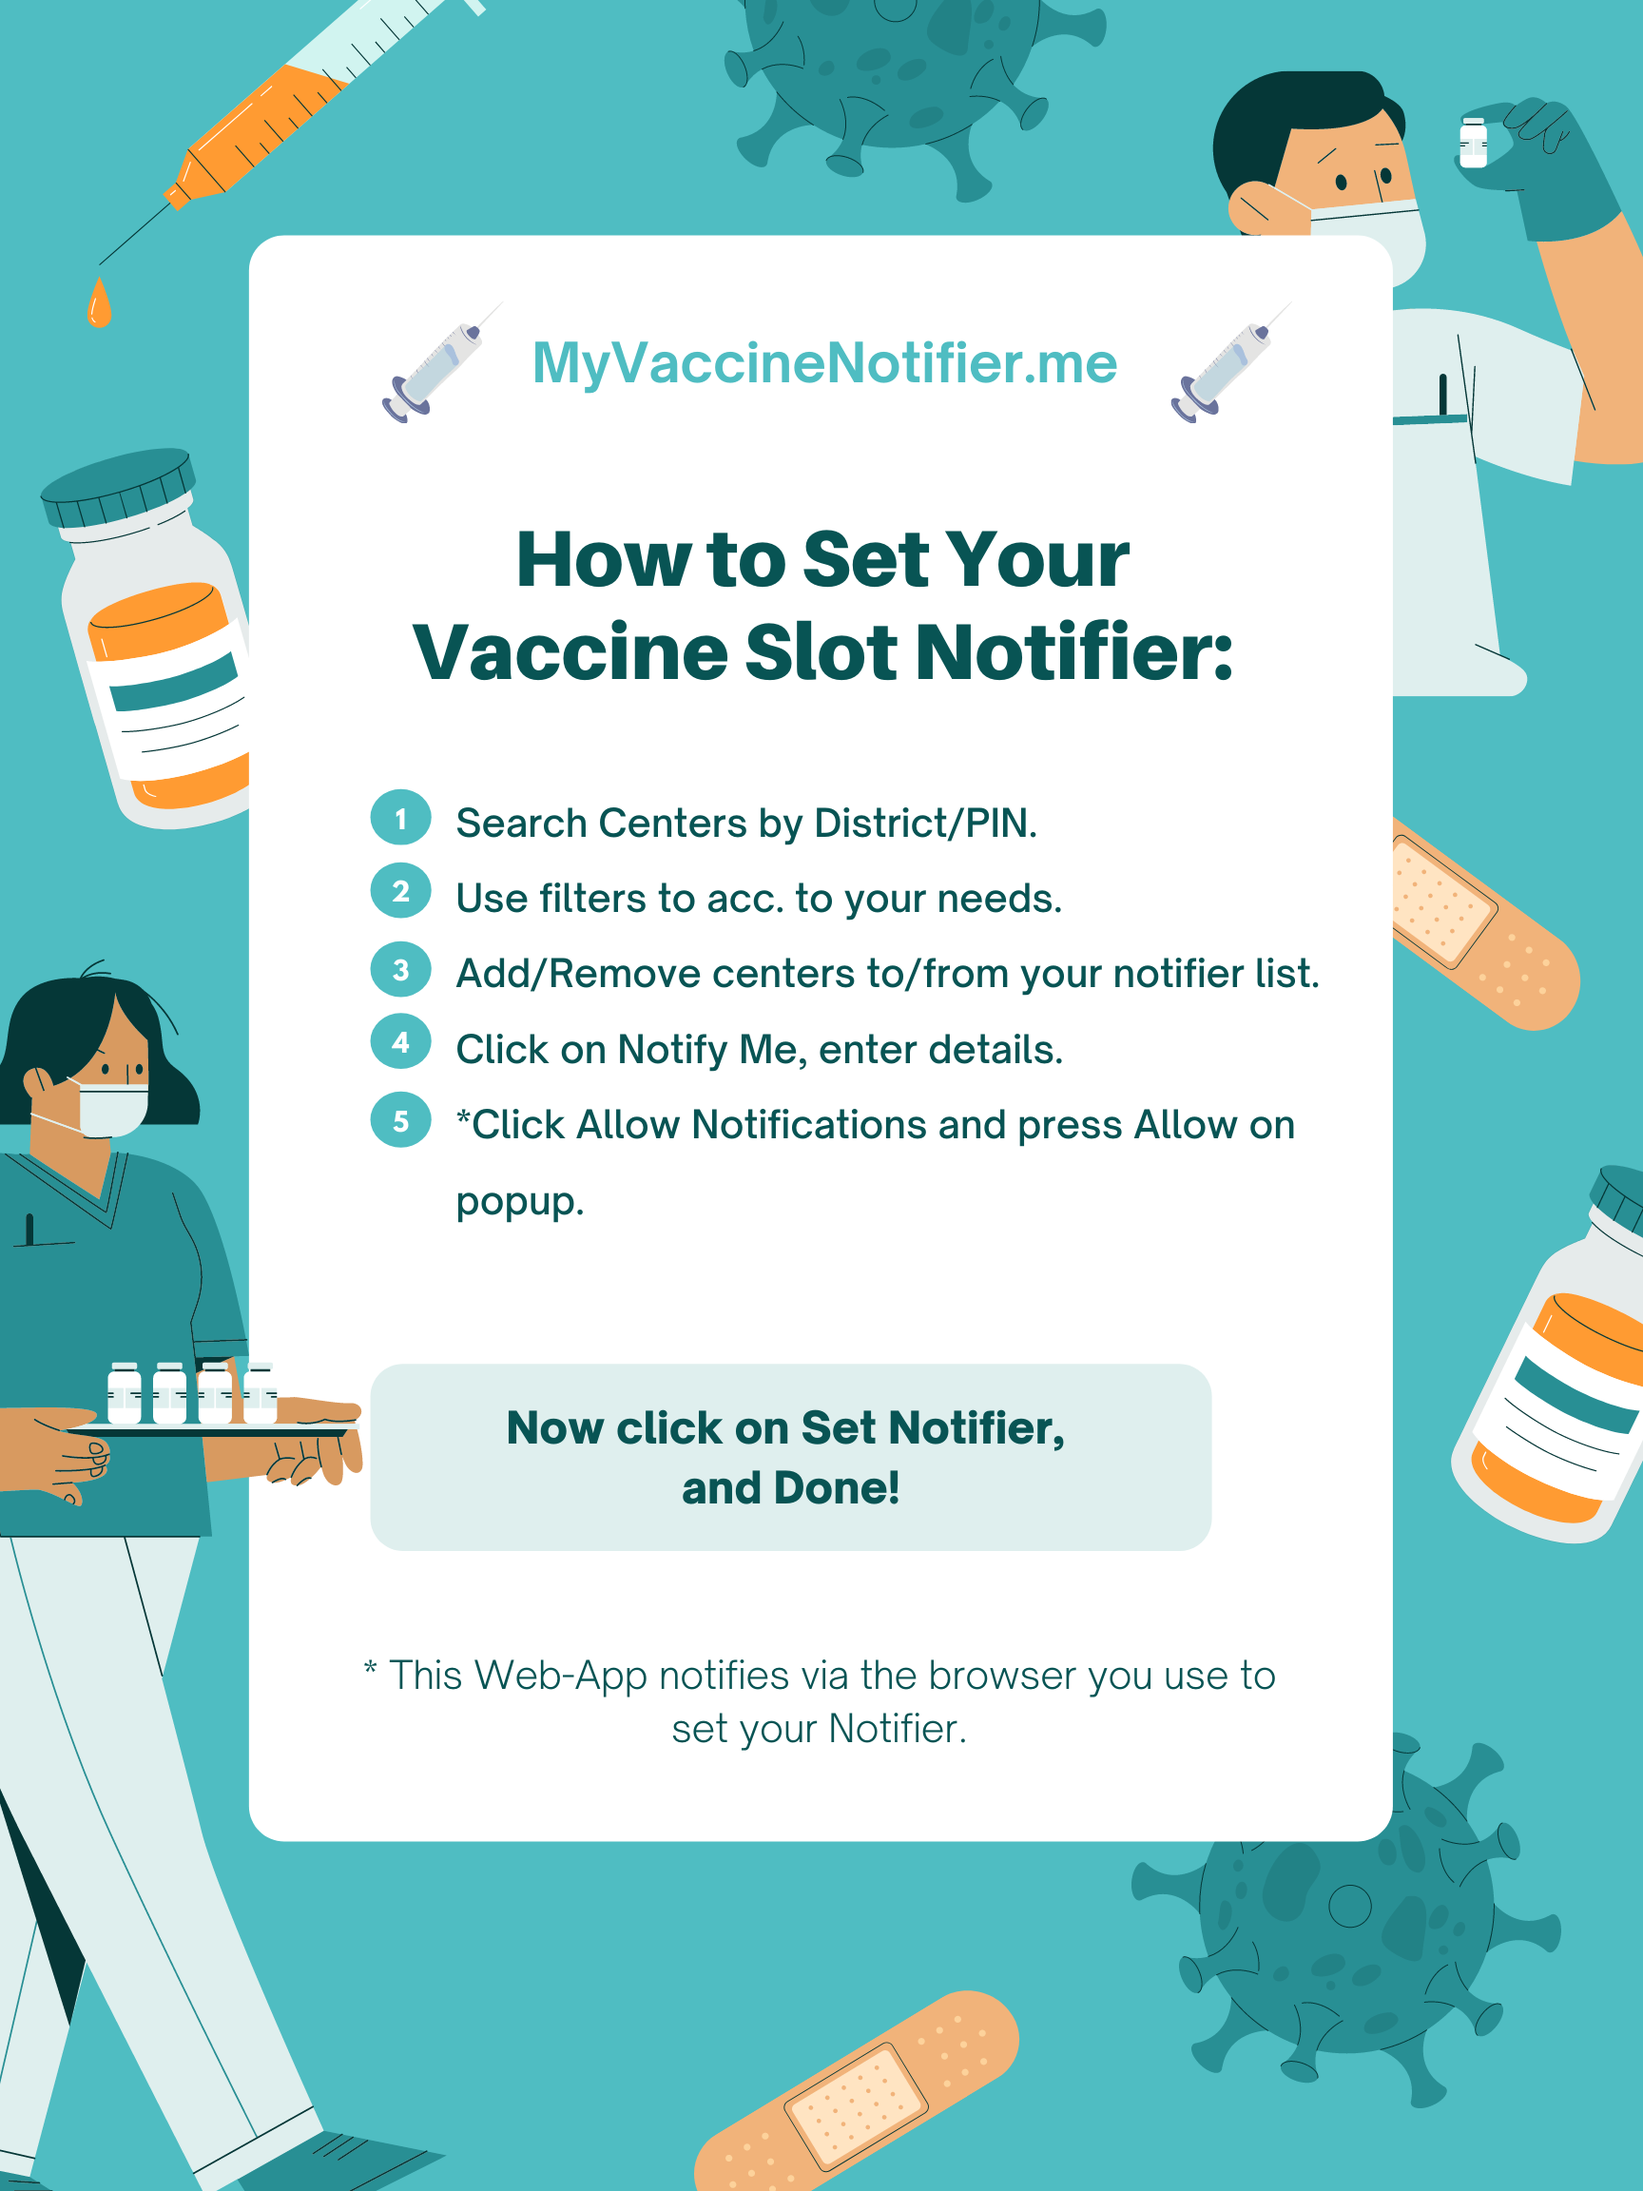
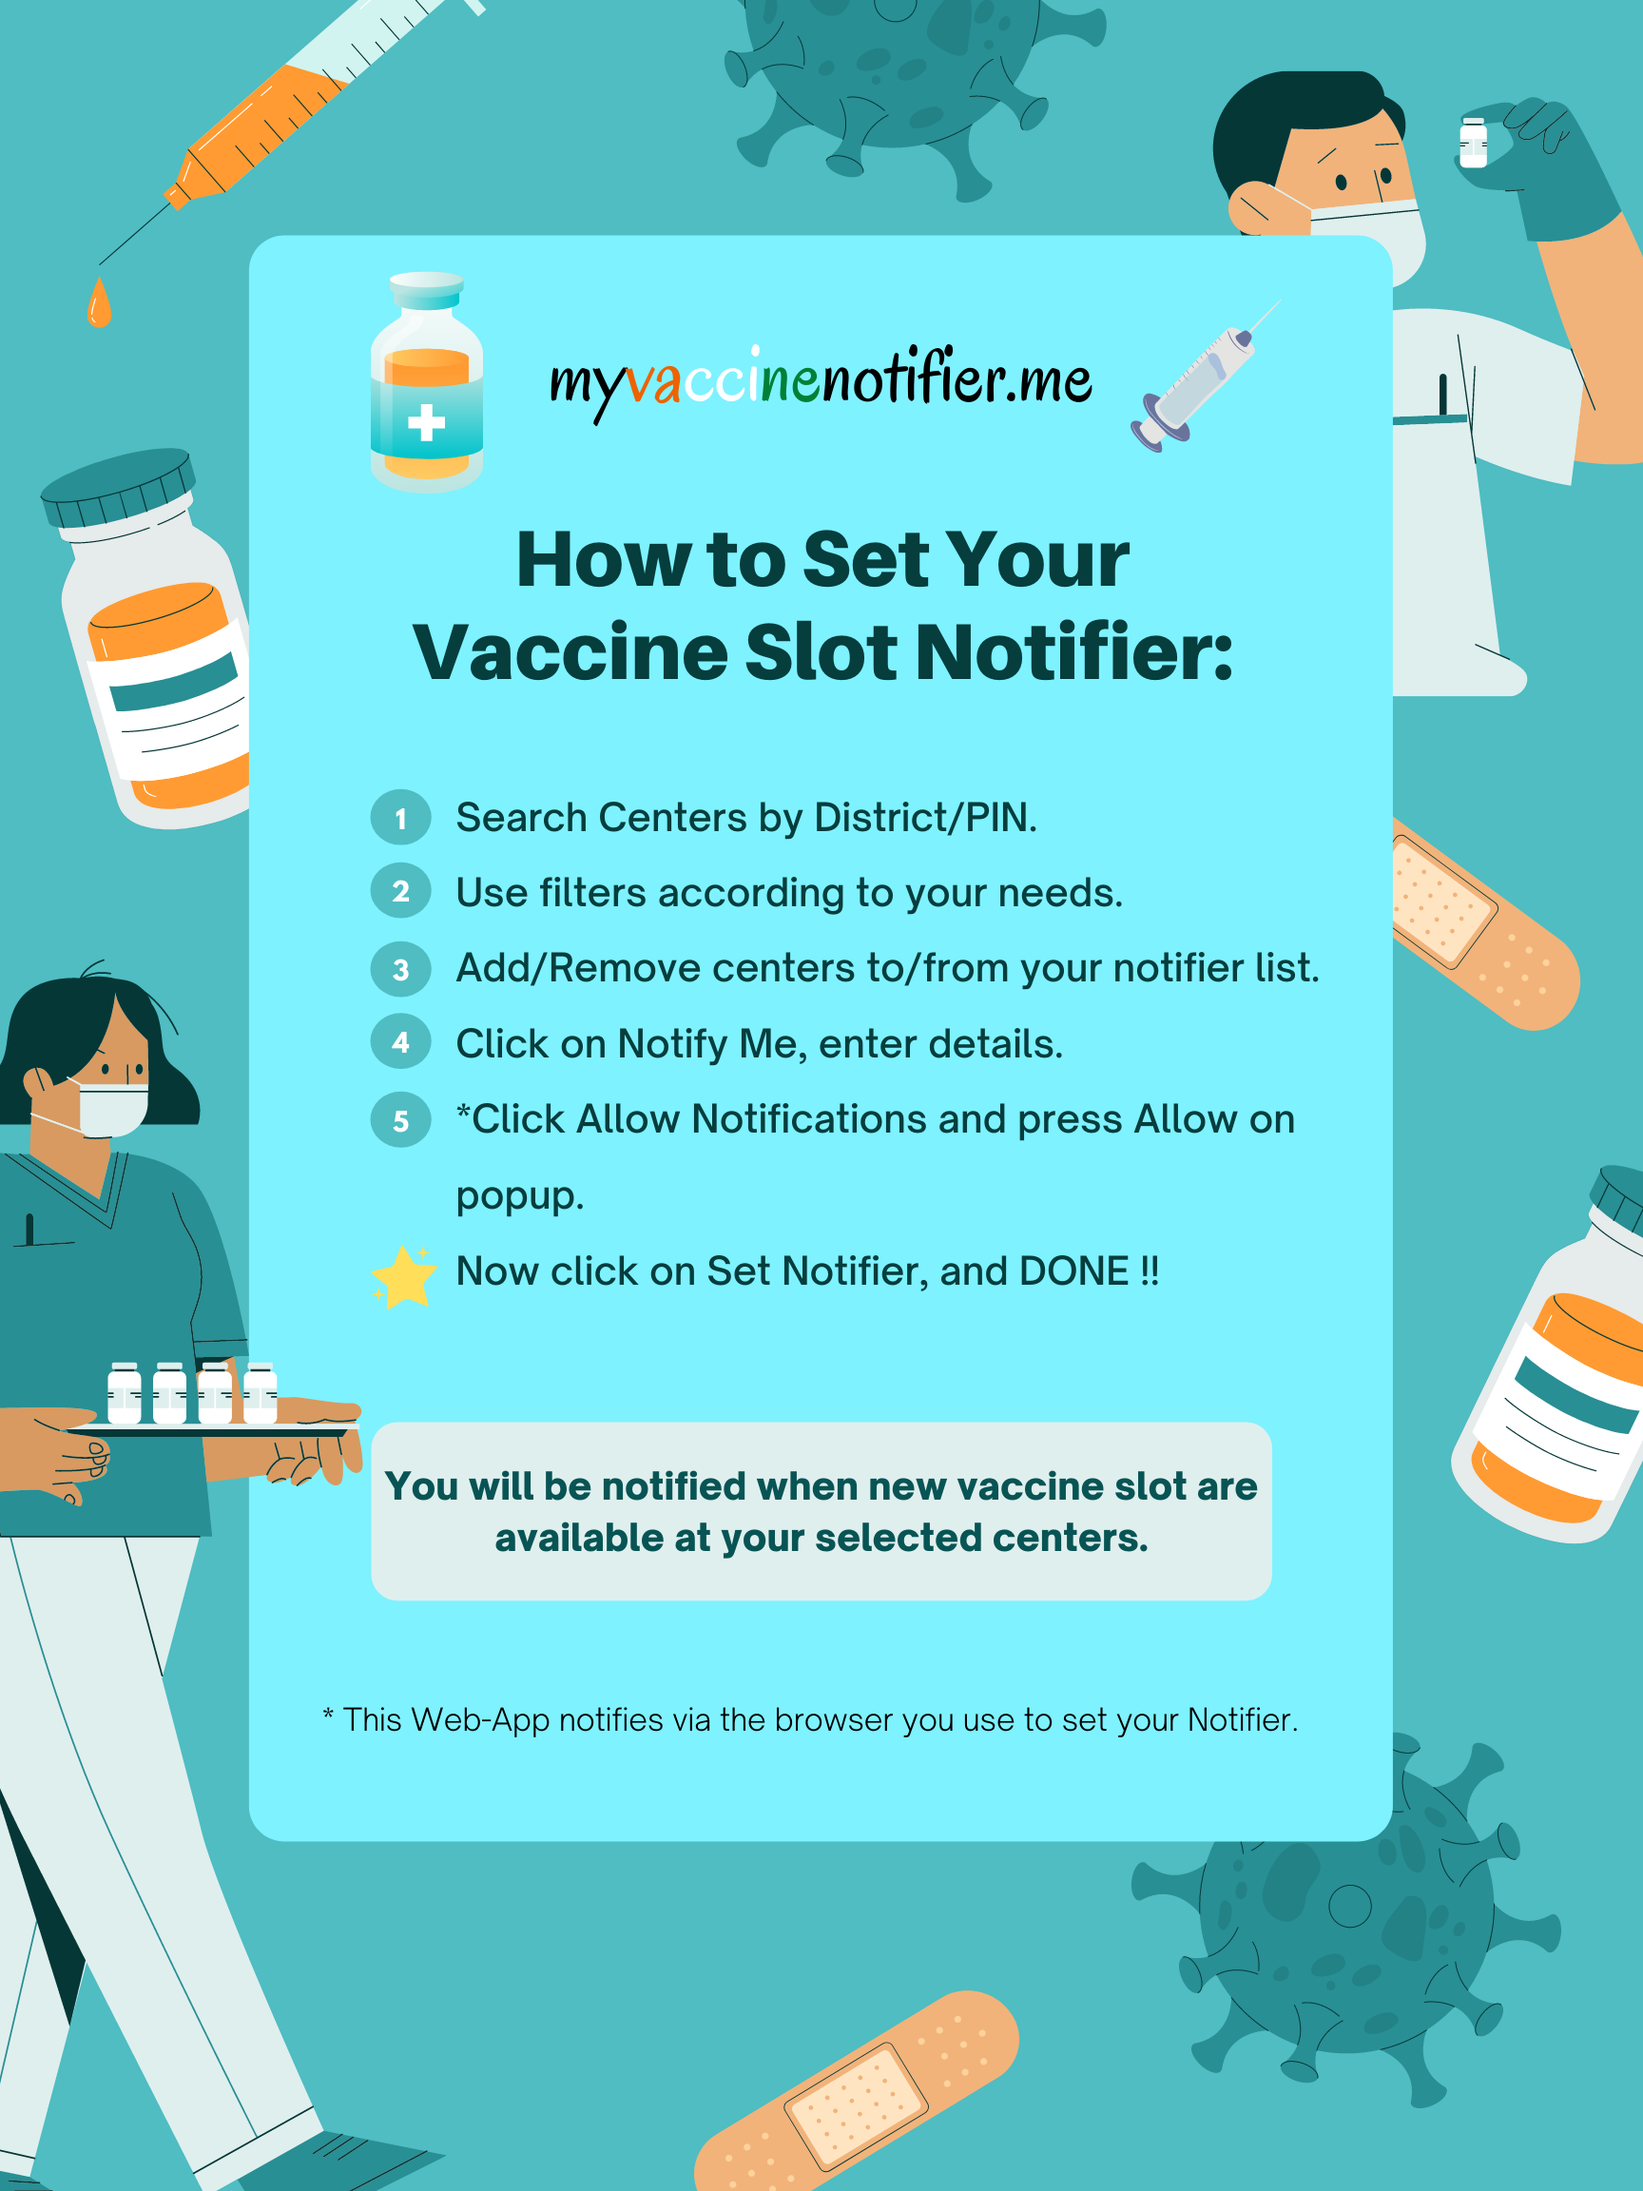
UI Changes

diff --git a/client/src/components/Cowin.js b/client/src/components/Cowin.js
@@ -94,6 +94,9 @@ const useStyles = makeStyles((theme) => ({
     },
     fill: {
         height: '16vh'
+    },
+    table: {
+        background: 'none'
     }
 }));
 
@@ -130,8 +133,8 @@ export default function Cowin() {
     const getContent = (id) => {
         switch (id) {
             case 0: return <ByDistrict setCenters={setCenters} />;
-            case 1: return <ByLocation setCenters={setCenters} />;
-            case 2: return <ByPIN setCenters={setCenters} />;
+            case 1: return <ByPIN setCenters={setCenters} />;
+            case 2: return <ByLocation setCenters={setCenters} />;
             default: break;
         }
     }
@@ -214,7 +217,7 @@ export default function Cowin() {
             <div className={classes.paper}>
                 <Tabs value={tab} setValue={setTab} />
                 {getContent(tab)}
-                {(tab !== 1) ? <Button
+                {(tab !== 2) ? <Button
                     type="submit"
                     variant="contained"
                     color="primary"
@@ -229,7 +232,7 @@ export default function Cowin() {
                     </Alert>
                 </Snackbar>
             </div>
-            {(tab !== 1) ? <div>
+            {(tab !== 2) ? <div>
                 <div>
                     <Grid container spacing={2} >
                         <Grid item xs={12} sm={3} >
@@ -400,8 +403,8 @@ export default function Cowin() {
                         <div className={classes.modal} ><User postData={postData} close={handleClose} /></div>
                     </Modal>
                 </div>
-                <TableContainer component={Paper}>
-                    <Table className={classes.table} aria-label="simple table">
+                <TableContainer className={classes.table} component={Paper}>
+                    <Table aria-label="simple table">
                         <TableHead>
                             <TableRow>
                                 <TableCell>Center Name</TableCell>

diff --git a/client/src/components/Header.js b/client/src/components/Header.js
@@ -22,6 +22,24 @@ const useStyles = makeStyles((theme) => ({
     },
     title: {
         flexGrow: 1,
+        fontFamily: "'Oregano', cursive",
+        fontSize: theme.spacing(4)
+    },
+    orange: {
+        marginLeft: '1px',
+        color: '#ed6300',
+        fontWeight: '800',
+        marginRight: '1px'
+    },
+    white: {
+        color: '#ffffff',
+        fontWeight: '800',
+        marginRight: '1px'
+    },
+    green: {
+        color: '#008037',
+        fontWeight: '800',
+        marginRight: '1px'
     },
     link: {
         '&:hover': {
@@ -45,7 +63,7 @@ const ButtonAppBar = (props) => {
             <AppBar position="static" elevation={0} >
                 <Toolbar>
                     <Typography variant="h5" className={classes.title}>
-                        MyVaccineNotifier
+                        my<span className={classes.orange}>va</span><span className={classes.white}>cci</span><span className={classes.green}>ne</span>notifier.me
                         {/* <img className={classes.logo} src="./logo.png" alt="logo" /> */}
                     </Typography>
                     <div className={classes.icons}>

diff --git a/client/src/components/Tabs.js b/client/src/components/Tabs.js
@@ -4,15 +4,16 @@ import Paper from '@material-ui/core/Paper';
 import Tabs from '@material-ui/core/Tabs';
 import Tab from '@material-ui/core/Tab';
 
-const useStyles = makeStyles({
+const useStyles = makeStyles((theme) => ({
     root: {
         flexGrow: 1,
-        width: '100%'
+        width: '100%',
+        borderRadius: theme.spacing(3)
     },
     label: {
         fontWeight: '900'
     }
-});
+}));
 
 export default function MenuTabs(props) {
     const classes = useStyles();
@@ -31,8 +32,8 @@ export default function MenuTabs(props) {
                 centered
             >
                 <Tab className={classes.label} label="By District" />
-                <Tab className={classes.label} label="How to use" />
                 <Tab className={classes.label} label="By PINCode" />
+                <Tab className={classes.label} label="How to use" />
             </Tabs>
         </Paper>
     );

diff --git a/client/src/App.css b/client/src/App.css
@@ -1,6 +1,14 @@
+@import url('https://fonts.googleapis.com/css2?family=Oregano&display=swap');
+
 .App {
   text-align: center;
   min-height: 100vh;
+  /* background-color: #ffffff;
+  background-image: url("https://www.transparenttextures.com/patterns/washi.png"); */
+  /* background-color: #ffffff;
+  background-image: url("https://www.transparenttextures.com/patterns/skulls.png"); */
+  background-color: #ffffff;
+  background-image: url("https://www.transparenttextures.com/patterns/flowers.png");
 }
 
 .App-logo {

diff --git a/client/src/components/Footer.js b/client/src/components/Footer.js
@@ -31,7 +31,7 @@ const useStyles = makeStyles((theme) => ({
     footer: {
         padding: theme.spacing(3, 2),
         backgroundColor:
-            theme.palette.type === 'light' ? theme.palette.grey[200] : theme.palette.grey[800],
+            theme.palette.type === 'light' ? theme.palette.grey[300] : theme.palette.grey[800],
 
         // [theme.breakpoints.down('sm')]: {
         //     position: "relative",
